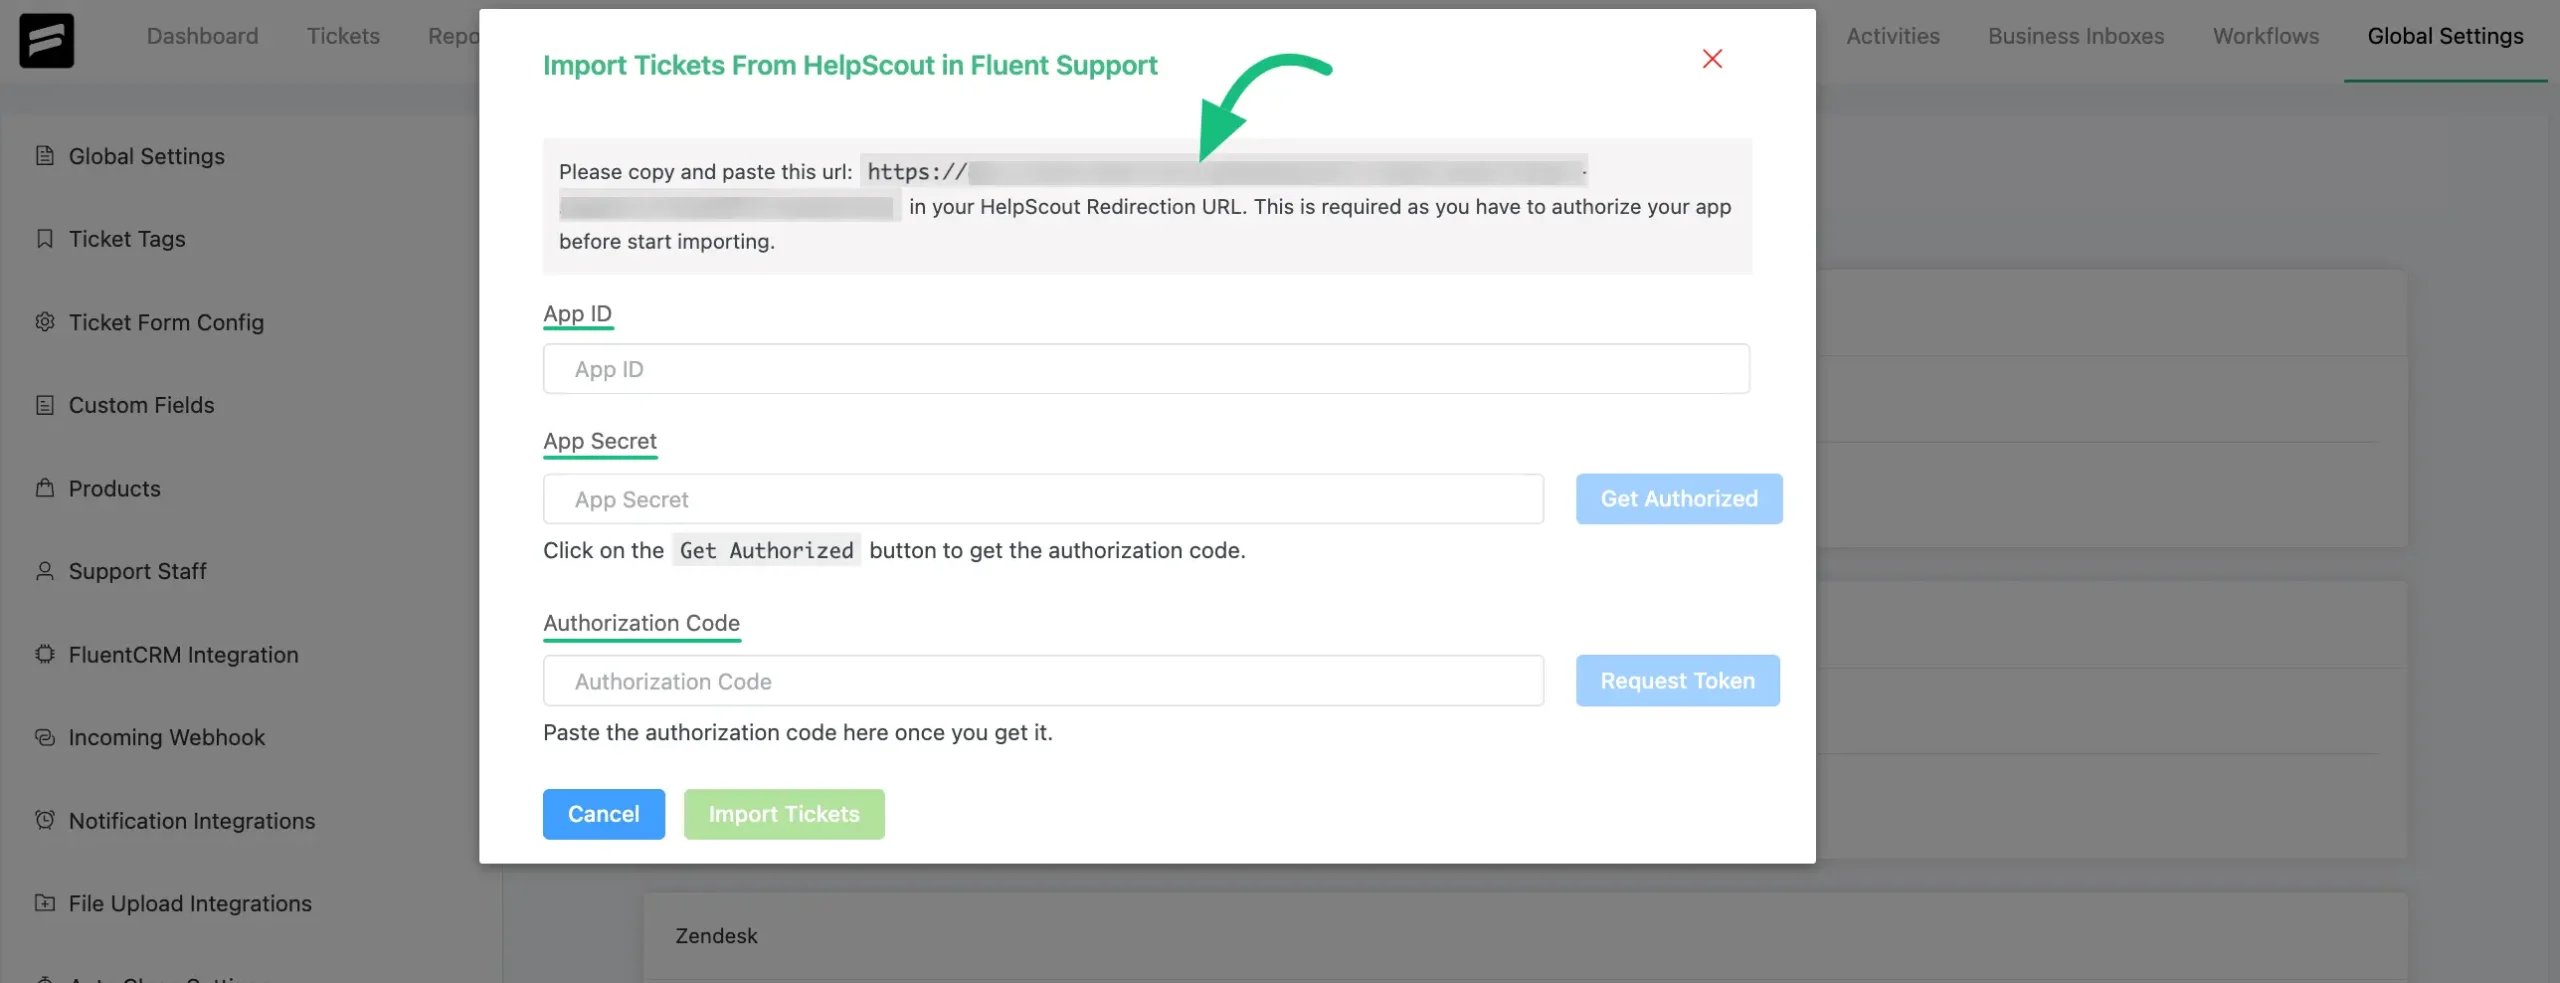
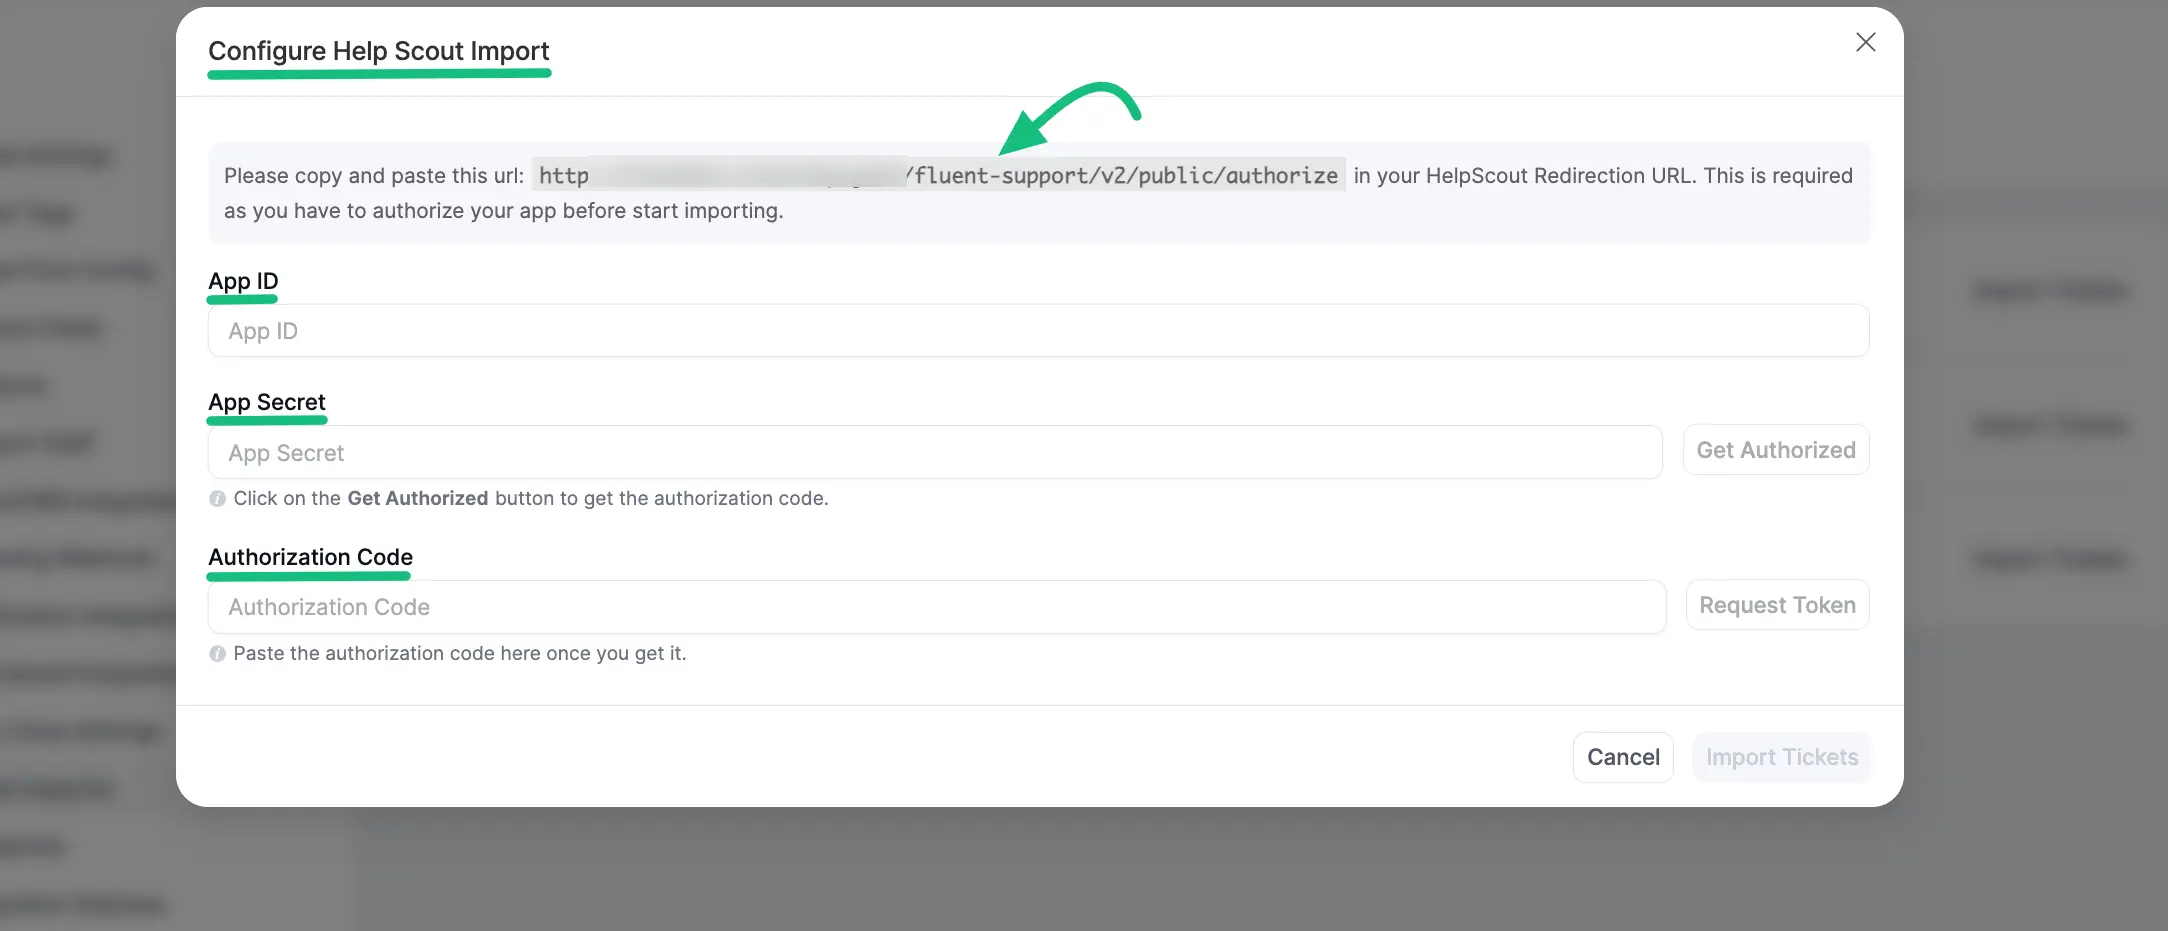
HelpScout Ticket Migrator doc update
HelpScout Ticket Migrator doc update

diff --git a/guide/migration/helpscout-ticket-migrator.md b/guide/migration/helpscout-ticket-migrator.md
@@ -5,19 +5,25 @@
 
 [**HelpScout**](https://www.helpscout.com/) is a SaaS tool for customer communication. **HelpScout** users can easily transfer their **tickets** to [**Fluent Support**](https://fluentsupport.com/) through an **API**. This article will guide you through the process.
 
-## Import Tickets From Help Scout Into Fluent Support #
+## Import Tickets From Help Scout 
 
 To learn how to import tickets from **Help Scout** into **Fluent Support** , follow the steps with screenshots below —
 
-From the **Fluent Support Dashboard** , go to **Settings** or **Global Settings** , select the **Ticket Importer** , find **Help Scout** for ticket migration, and click **Import Tickets**.
+From the **Fluent Support Dashboard**, go to **Settings** and select **Ticket Importer** from the left sidebar. Find **Help Scout** in the list of migration options and click the **Import Tickets** button.
 
-![Ticket migration from HelpScout](/guide/public/images/migration/helpscout-ticket-migrator/dashboard-helpscout-import-ticket-scaled-1.webp)
+![Ticket migration from HelpScout](/guide/public/images/migration/helpscout-ticket-migrator/access-ticket-importer-1.webp)
 
-A popup page will appear asking for your **App ID** , **App** **Secret** , and **Authorization Code**. Now, copy the **HelpScout Redirection URL** for future use.
+## Configuring the Import
+
+A popup window titled Configure Help Scout Import will appear. This window asks for your **App ID**, **App Secret**, and **Authorization Code**. Now, copy the **HelpScout Redirection URL** for future use.
 
 ![HelpScout Redirection URL](/guide/public/images/migration/helpscout-ticket-migrator/help-scout-popup-page-scaled-1.webp)
 
-To get the **App ID** and **Secret,** go to your [**HelpScout**](https://www.helpscout.com/) account. Go to the **Profile Icon** from the right-hand corner of the **Dashboard,** select **Your Profile** , choose **My Apps,** and click the **Create My App** button.
+### Create an App in Help Scout
+
+To get the required credentials, you need to create an application in your [**Help Scout**](https://www.helpscout.com/) account.
+
+Go to the **Profile Icon** from the right-hand corner of the **Dashboard,** select **Your Profile** , choose **My Apps,** and click the **Create My App** button.
 
 ![Create My App in HelpScout](/guide/public/images/migration/helpscout-ticket-migrator/profile-icon-my-apps-create-app-scaled-1.webp)
 
@@ -25,7 +31,9 @@ Name your App, paste the previously copied URL into the **Redirection URL** fiel
 
 ![Paste Redirection URL](/guide/public/images/migration/helpscout-ticket-migrator/app-name-redirection-url-create-scaled-1.webp)
 
-Now, copy the **App ID** and **App Secret** from here.
+### Authorize the Connection
+
+Once your app is created in Help Scout, you will be provided with an **App ID** and **App Secret**. Now, copy the **App ID** and **App Secret** from here.
 
 ![App ID and App Secret](/guide/public/images/migration/helpscout-ticket-migrator/copy-app-id-app-secret-scaled-1.webp)
 
@@ -37,25 +45,27 @@ To obtain the Authorization Code, click the **Get Authorized** button now.
 
 ![ Get Authorized option](/guide/public/images/migration/helpscout-ticket-migrator/get-authorized-button-scaled-1.webp)
 
-It will bring you back to the **HelpScout** page, now click on the **Authorize** button.
+This action will redirect you to **Help Scout** to authorize access. Click **A**uthorize** when prompted.
 
 ![HelpScout page](/guide/public/images/migration/helpscout-ticket-migrator/authorize-button-1.webp)
 
-You will receive your Authorization code here, now simply copy it.
+### Request Token and Import
+
+You will receive your Authorization code here, now simply **copy** it.
 
 ![Receive your Authorization code](/guide/public/images/migration/helpscout-ticket-migrator/copy-authorization-code-scaled-1.webp)
 
-Return to the **Help Scout** popup page again and paste this in the **Authorization Code** field.
+Return to the **Help Scout** popup page again and **paste** this in the **Authorization Code** field.
 
 ![Authorization Code field](/guide/public/images/migration/helpscout-ticket-migrator/paste-the-authorization-code-scaled-1.webp)
 
-Click the **Request Token** to get your **Access Token**. Your all mailboxes will appear in the dropdown list under the **Choose Mailbox** field. Select the required mailbox to import tickets.
+Click the **Request Token** to get your **Access Token**. After requesting the token, a Choose **Mailbox** dropdown will appear. Select the specific Help Scout mailbox you wish to import tickets from.
 
 You can choose only one **Mailbox** at a time, and without selecting the specific mailbox you won’t be able to import your tickets.
 
 ![Request Token option](/guide/public/images/migration/helpscout-ticket-migrator/request-ticket-button-choose-mailbox-scaled-1.webp)
 
-Once you are done, click the **Import Tickets** button.
+Once you have selected the mailbox, click the **Import Tickets** button to begin the process.
 
 ![Finally Import Tickets ](/guide/public/images/migration/helpscout-ticket-migrator/finally-import-tickets-button-scaled-1.webp)
 
